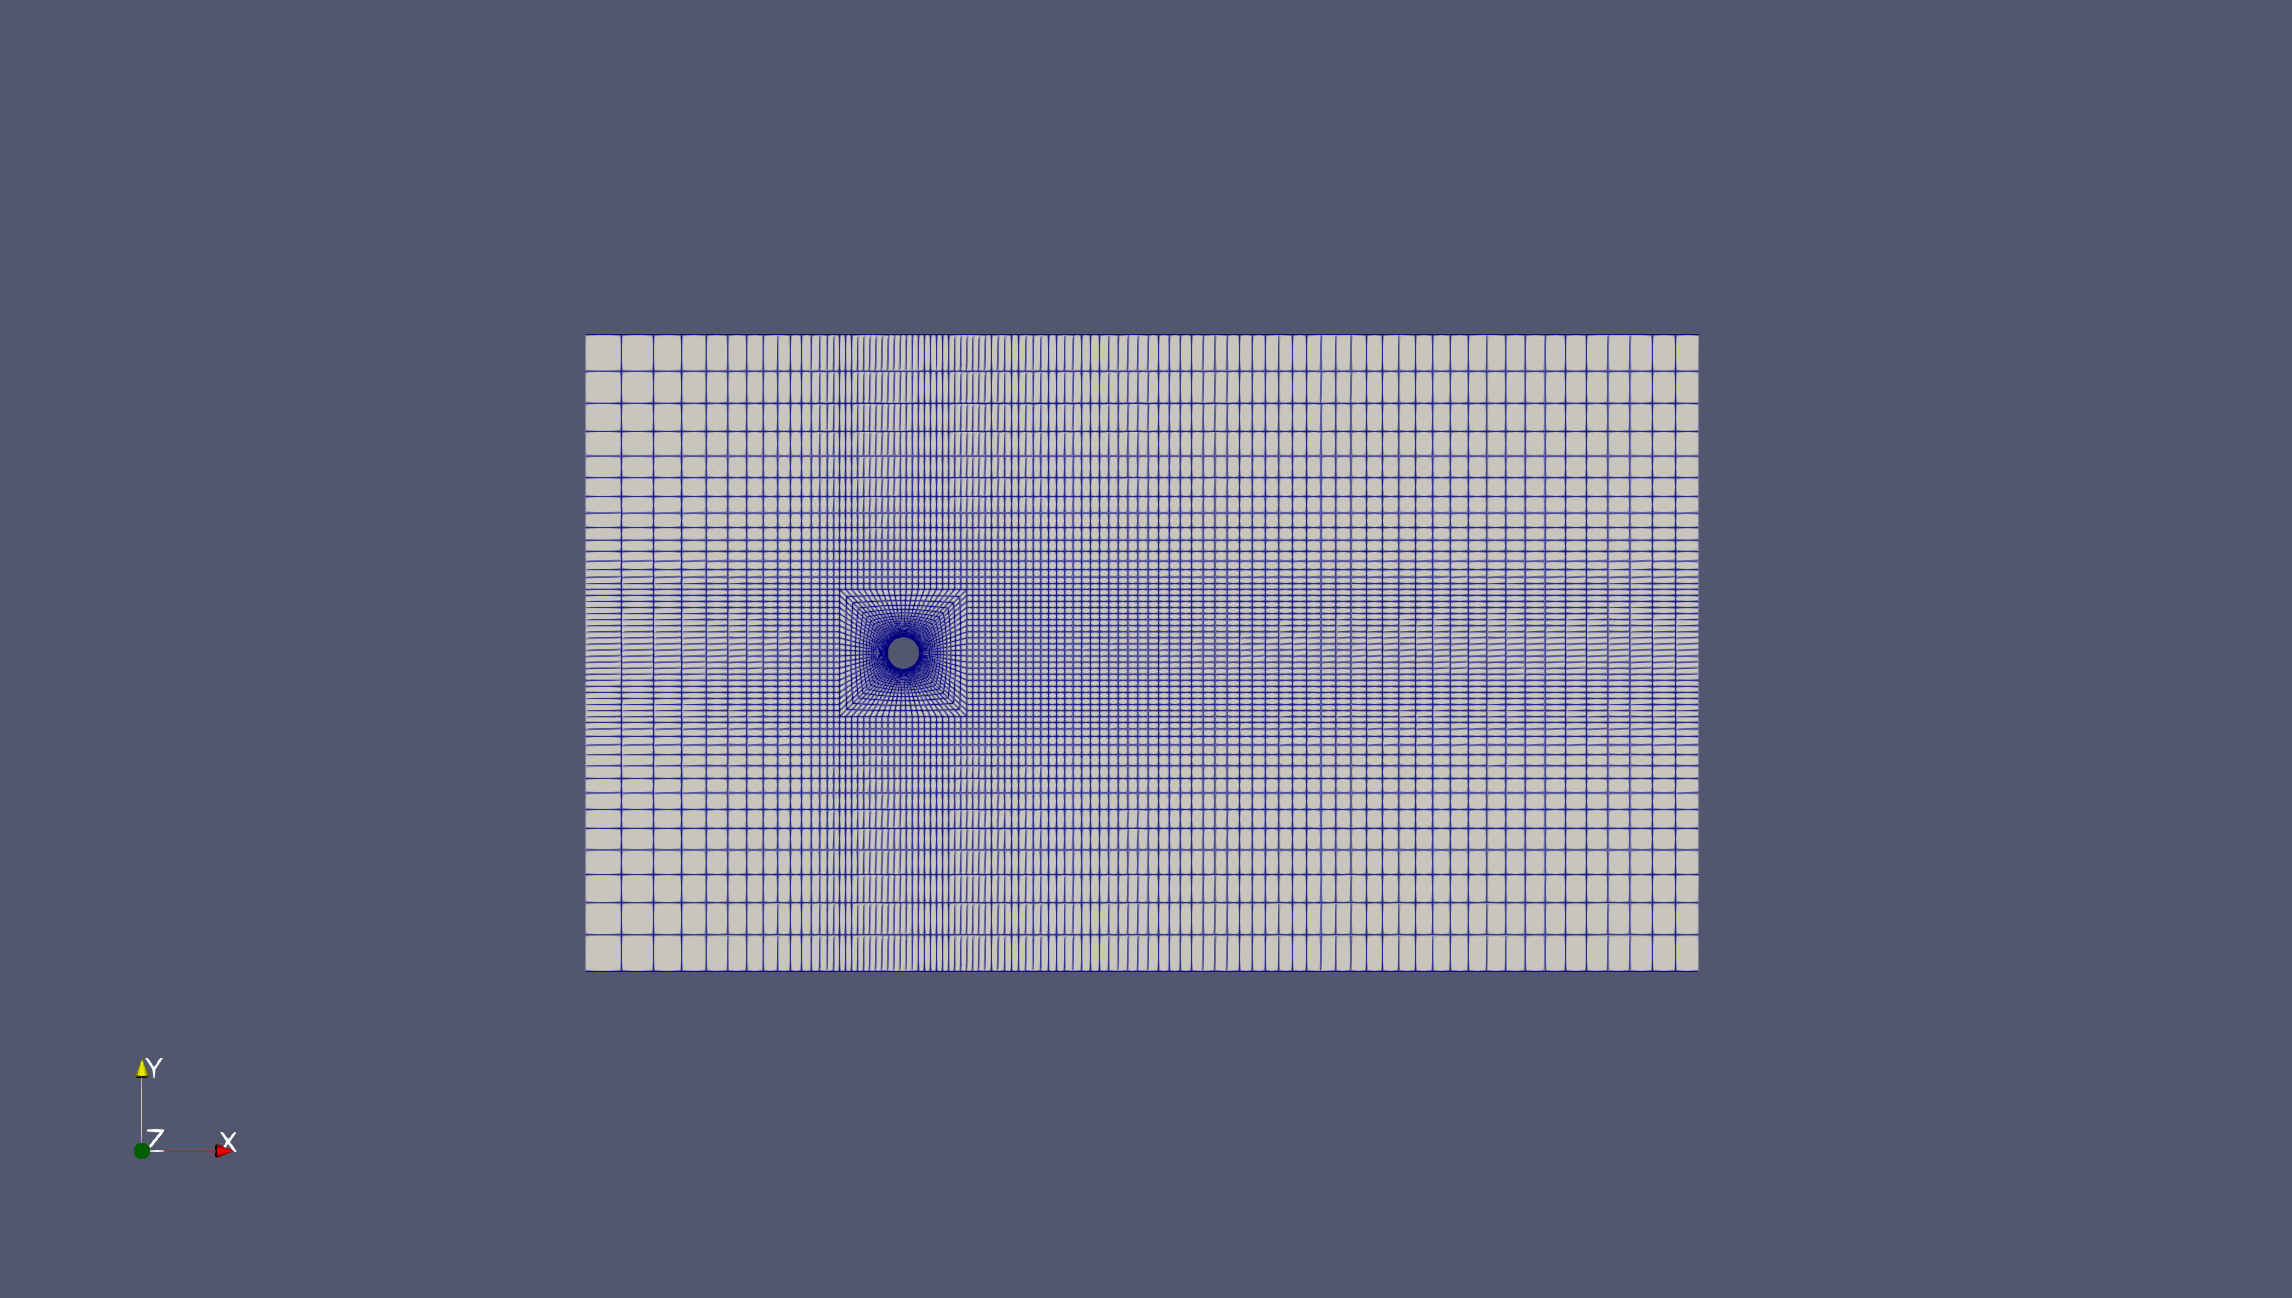
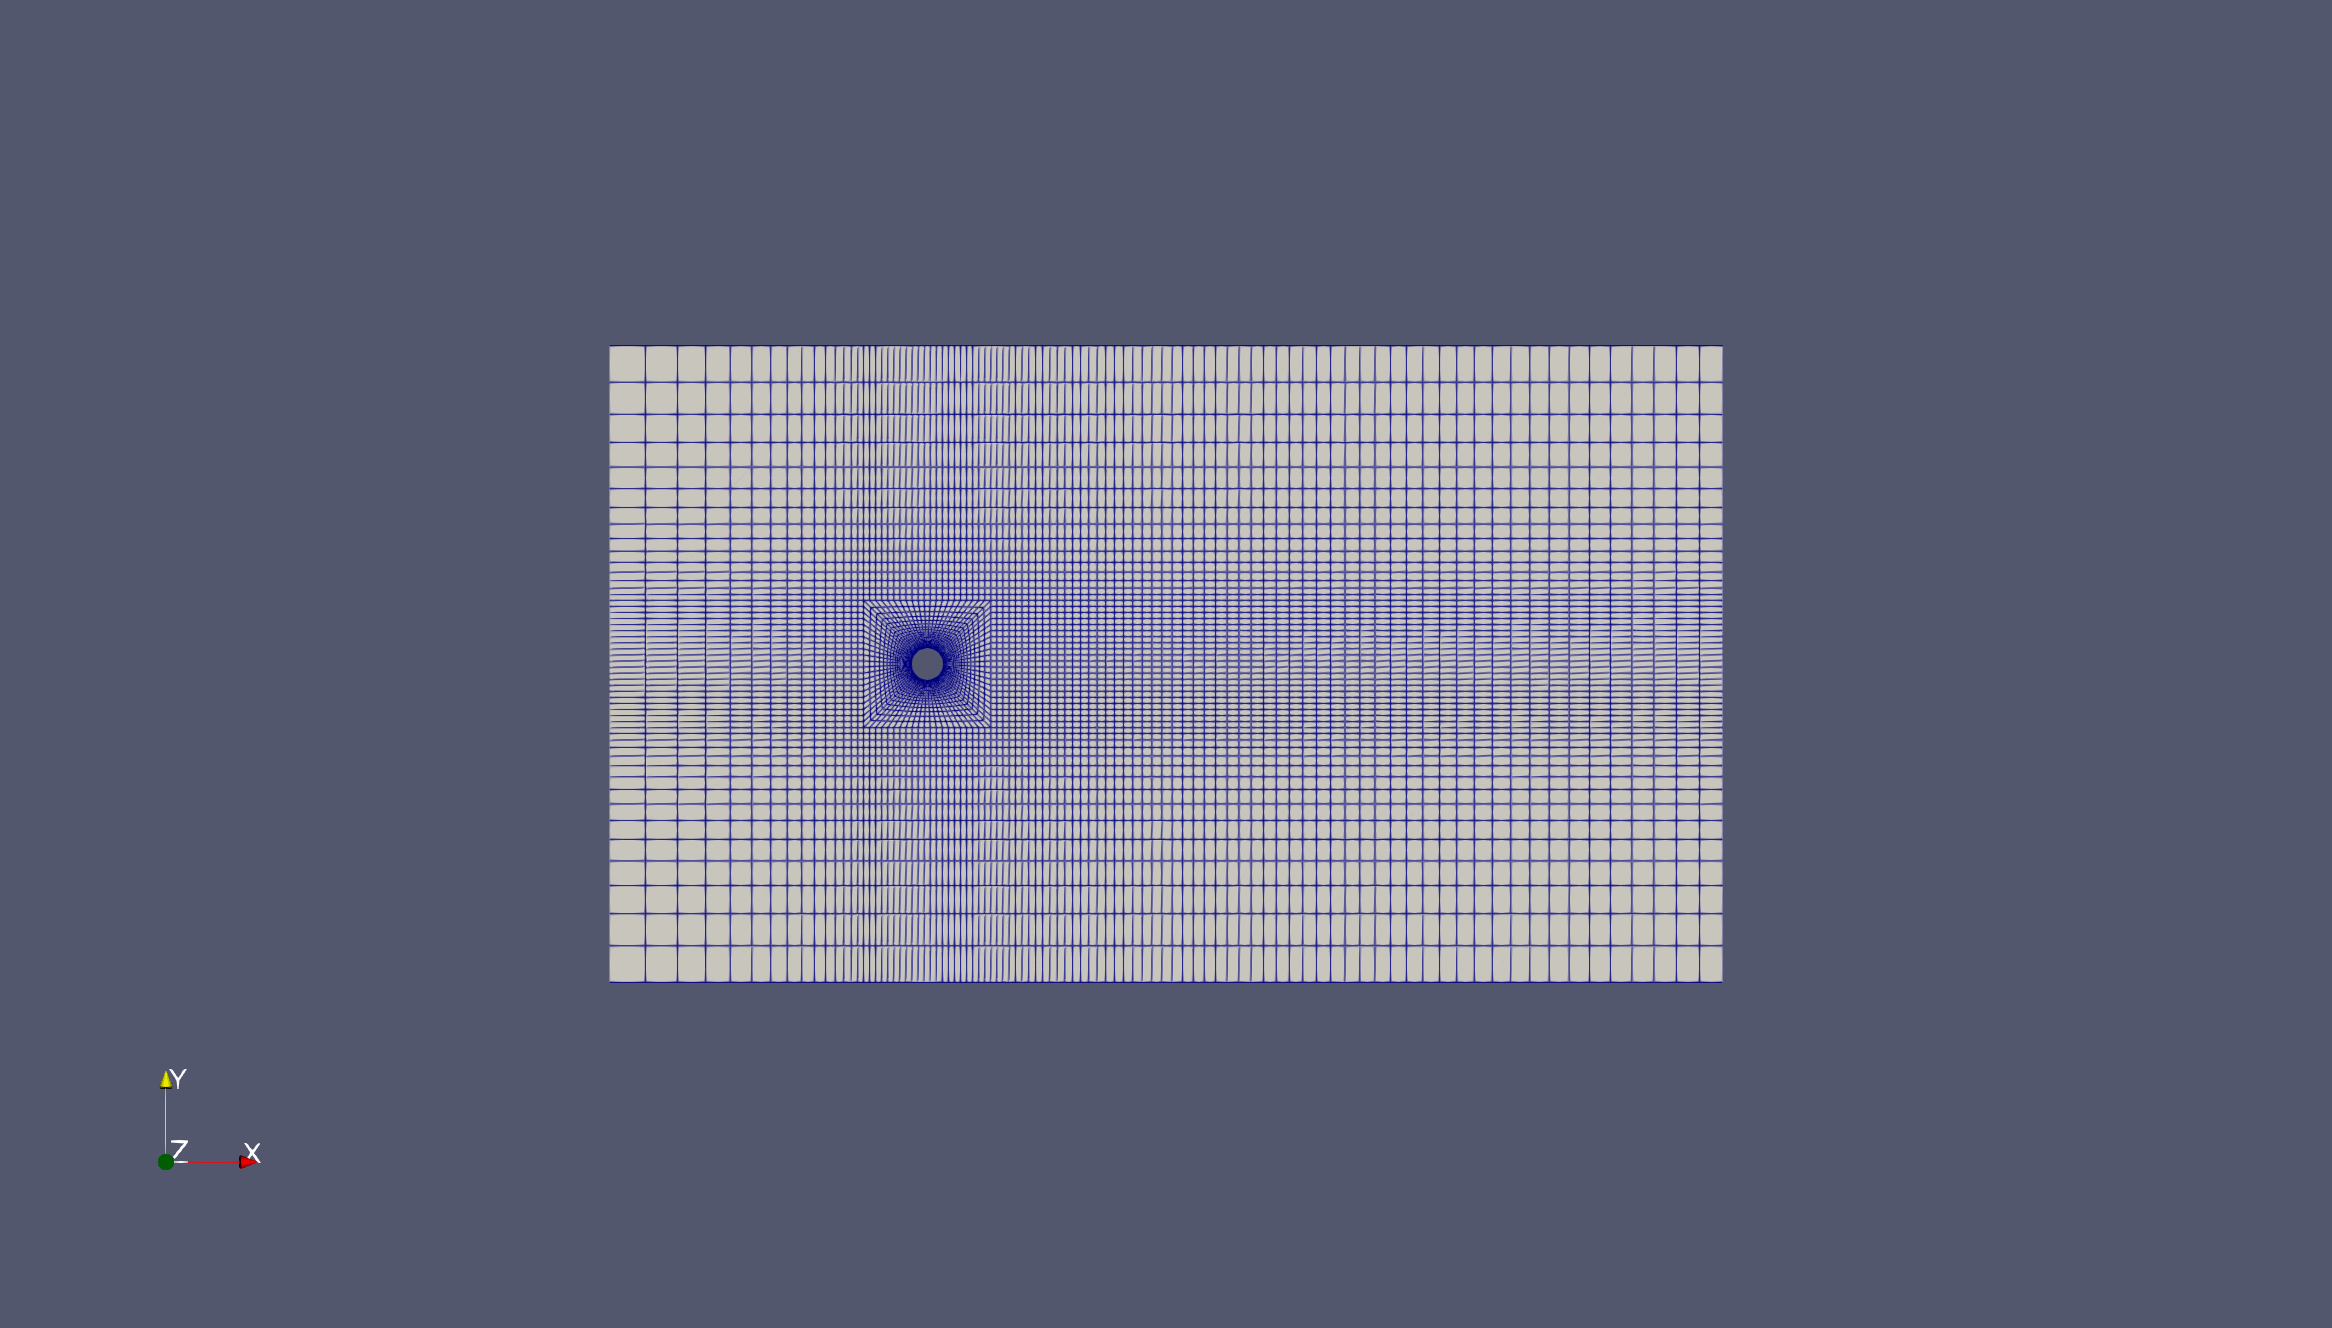
fix(readme): show updated coarse and fine mesh side by side

Changed region(s): [[0.2478, 0.2465, 0.7435, 0.7704], [0.062, 0.8629, 0.1239, 0.8937], [0.062, 0.8012, 0.0929, 0.832]]

diff --git a/README.md b/README.md
@@ -155,11 +155,18 @@ Generated by `mesh/make_blockmesh.py`; refinement ratio 1.5 in each direction, e
 
 All three pass `checkMesh` ("Mesh OK"). The total volume equals the domain minus the cylinder to 6 or 7 digits.
 
-| coarse | medium | fine |
-|---|---|---|
-| ![coarse mesh](results/figures/mesh_coarse.png) | ![medium mesh](results/figures/mesh_medium.png) | ![fine mesh](results/figures/mesh_fine.png) |
+<table>
+  <tr>
+    <th width="50%">coarse</th>
+    <th width="50%">fine</th>
+  </tr>
+  <tr>
+    <td><img src="results/figures/mesh_coarse.png" width="420" alt="coarse mesh"></td>
+    <td><img src="results/figures/mesh_fine.png" width="420" alt="fine mesh"></td>
+  </tr>
+</table>
 
-The same view of the three meshes near the cylinder: each refinement multiplies the cells by 1.5 in both directions.
+The same view of the coarsest and finest mesh near the cylinder: the fine mesh has 2.25 times as many cells in each direction (two refinements of 1.5); the medium mesh lies in between.
 
 ## Baseline run
 
